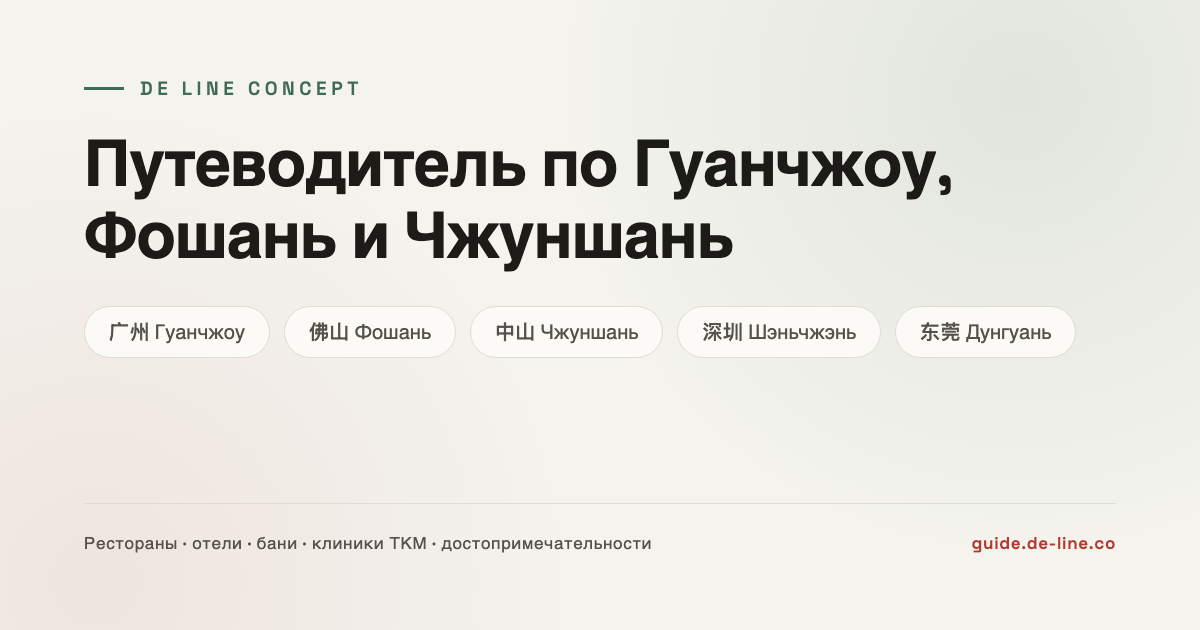
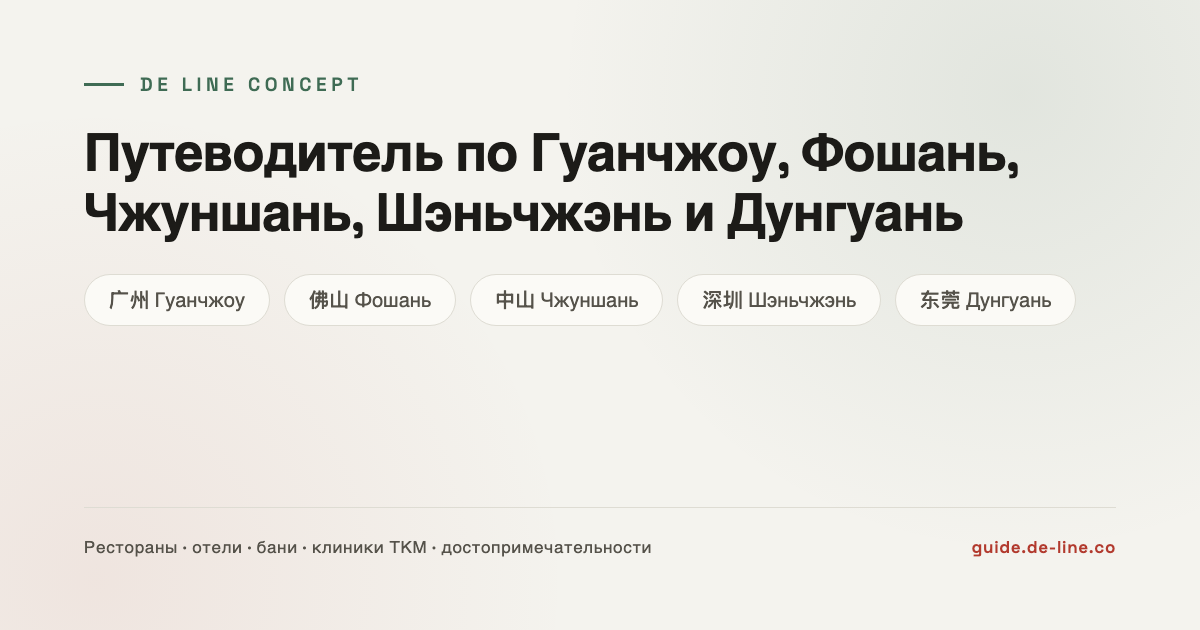
Fix guide title/H1 to list all 5 cities, not just 3

diff --git a/index.html b/index.html
@@ -3,12 +3,12 @@
 <head>
 <meta charset="UTF-8">
 <meta name="viewport" content="width=device-width, initial-scale=1.0">
-<title>Путеводитель по Гуанчжоу, Фошань и Чжуншань</title>
+<title>Путеводитель по Гуанчжоу, Фошань, Чжуншань, Шэньчжэнь и Дунгуань</title>
 <meta name="description" content="Гид De Line Concept по Гуанчжоу, Фошаню, Чжуншаню, Шэньчжэню и Дунгуаню: рестораны, отели, бани, клиники ТКМ и достопримечательности с точными адресами на Amap.">
 <meta name="theme-color" content="#F4F3EE">
 <meta property="og:type" content="website">
 <meta property="og:url" content="https://guide.de-line.co">
-<meta property="og:title" content="Путеводитель по Гуанчжоу, Фошань и Чжуншань — De Line Concept">
+<meta property="og:title" content="Путеводитель по Гуанчжоу, Фошань, Чжуншань, Шэньчжэнь и Дунгуань — De Line Concept">
 <meta property="og:description" content="Рестораны, отели, бани, клиники ТКМ и достопримечательности в Гуанчжоу, Фошане, Чжуншане, Шэньчжэне и Дунгуане — с точными адресами на Amap.">
 <meta property="og:image" content="https://guide.de-line.co/og-image.png">
 <meta property="og:locale" content="ru_RU">
@@ -200,7 +200,7 @@
 
   <header>
     <div class="eyebrow">De Line Concept</div>
-    <h1>Путеводитель<br>по Гуанчжоу, Фошань и Чжуншань</h1>
+    <h1>Путеводитель<br>по Гуанчжоу, Фошань, Чжуншань, Шэньчжэнь и Дунгуань</h1>
   </header>
 
   <nav class="citytabs" id="citytabs"></nav>
